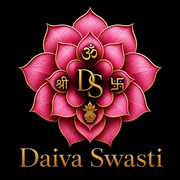
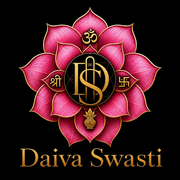
Replace center DS with the selected monogram mark
Use the provided intertwined DS emblem in the lotus center while
keeping Om, Sri, Swastik, and Kalash at the surrounding spots.

diff --git a/index.html b/index.html
@@ -10,8 +10,8 @@
     />
     <meta http-equiv="Cache-Control" content="no-cache, no-store, must-revalidate" />
     <title>Daiva Swasti</title>
-    <link rel="icon" type="image/png" sizes="32x32" href="assets/favicon-32.png?v=2" />
-    <link rel="apple-touch-icon" href="assets/apple-touch-icon.png?v=2" />
+    <link rel="icon" type="image/png" sizes="32x32" href="assets/favicon-32.png?v=3" />
+    <link rel="apple-touch-icon" href="assets/apple-touch-icon.png?v=3" />
     <link rel="preconnect" href="https://fonts.googleapis.com" />
     <link rel="preconnect" href="https://fonts.gstatic.com" crossorigin />
     <link
@@ -31,7 +31,7 @@
         >
           <img
             class="brand-logo"
-            src="assets/logo.jpg?v=3"
+            src="assets/logo.jpg?v=4"
             width="40"
             height="40"
             alt=""
